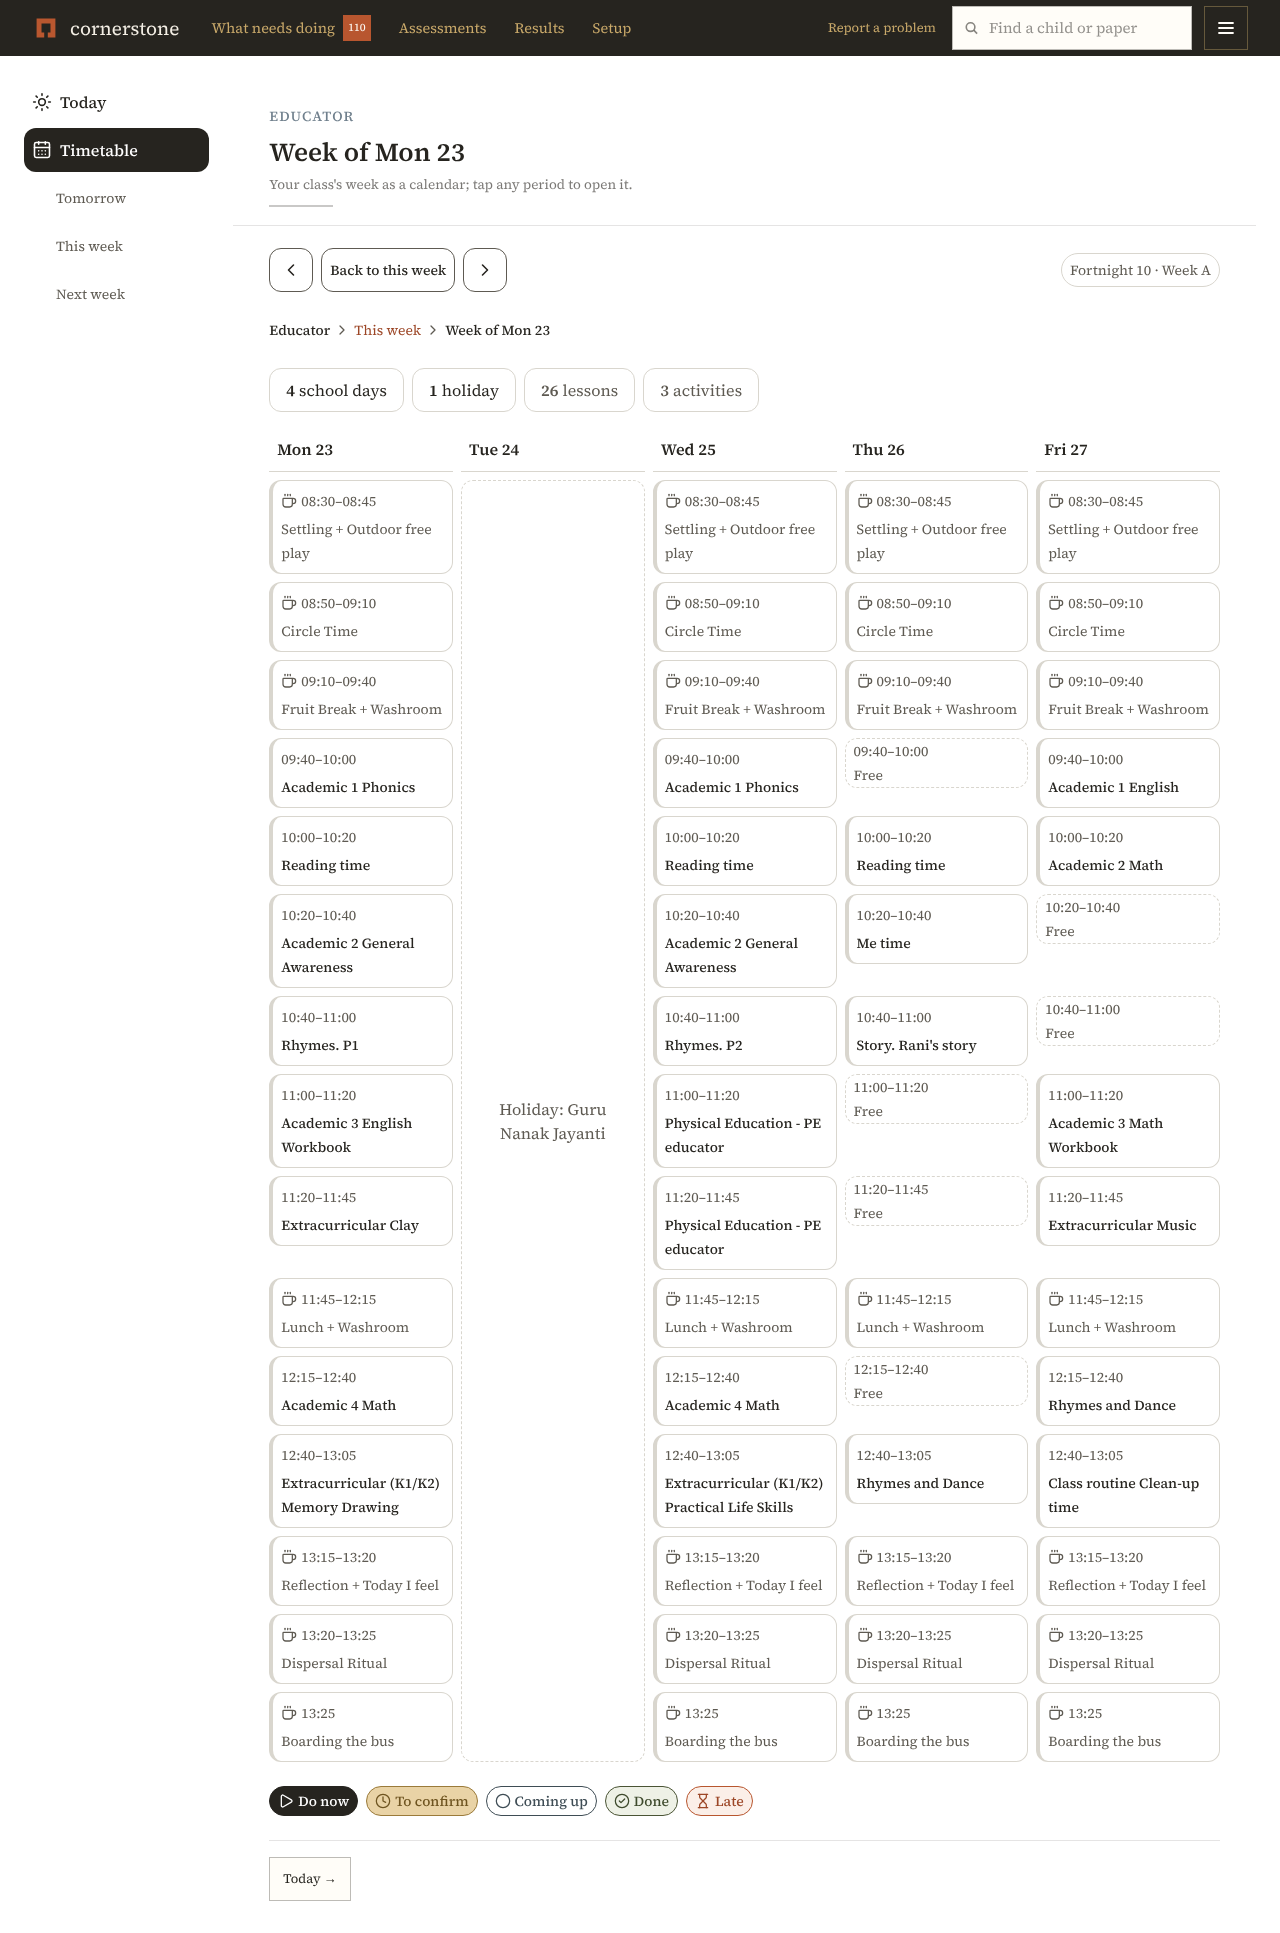
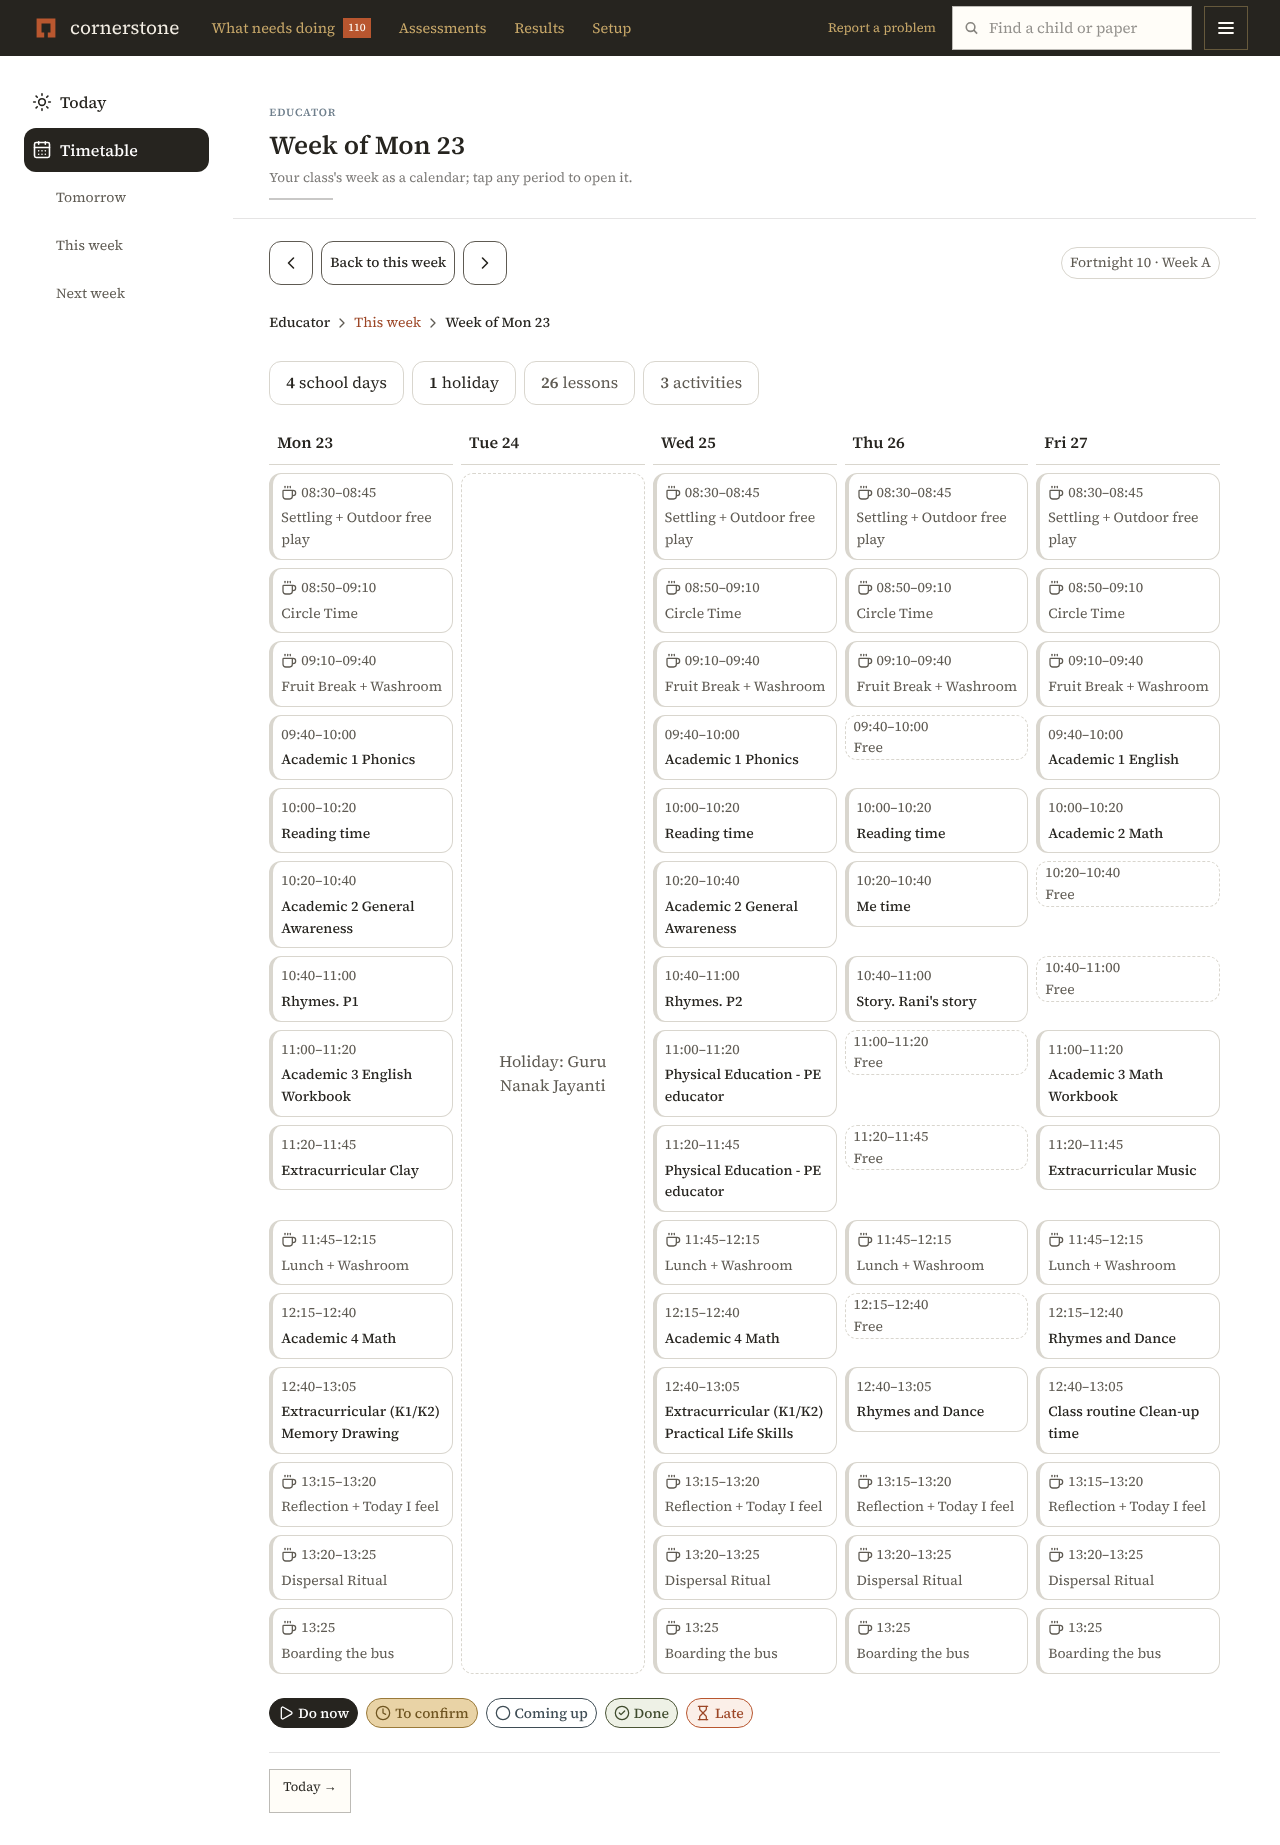
M1-09c: SchoolShell, the shell an area moves into with one change; the school's tokens load inside it only (the other pages keep their look and font, tested); the app-wide audit fixes left out
Claude-Session: https://claude.ai/code/session_01KEBF264xrSf75grt89GY2U

diff --git a/apps/web/components/educator/shell-nav.tsx b/apps/web/components/educator/shell-nav.tsx
@@ -3,29 +3,13 @@
 import { usePathname, useSearchParams } from "next/navigation";
 import Link from "@/components/link";
 import { Icon, type IconName } from "@/lib/icons";
-import { E } from "@/lib/educator/words";
 
-// Her timetable's menu (D-075): a left sidebar with submenus on a desktop, a bar of tabs at the foot of a phone. The
-// class she picked and the day she is on go with every link.
-type Sub = { key: string; label: string; path: string; extra?: string };
-type Item = { key: string; label: string; icon: IconName; path: string; sub?: Sub[] };
-// D-075's order: Today, then the timetable (day, week; fortnight and month come with their screens)
-const ITEMS: Item[] = [
-  { key: "today", label: E.nav.today, icon: "today", path: "/educator" },
-  {
-    key: "week",
-    label: E.nav.timetable,
-    icon: "week",
-    path: "/educator/week",
-    sub: [
-      { key: "day", label: E.nav.day, path: "/educator", extra: "tomorrow" },
-      { key: "week", label: E.nav.week, path: "/educator/week" },
-      { key: "next", label: E.nav.nextWeek, path: "/educator/week", extra: "next" },
-    ],
-  },
-];
+// The school's screens' menu (D-075): a left sidebar with submenus on a desktop, a bar of tabs at the foot of a phone.
+// The items are the area's own (lib/educator/menu.ts for the educator); the class she picked goes with every link.
+export type MenuSub = { key: string; label: string; path: string; extra?: string };
+export type MenuItem = { key: string; label: string; icon: IconName; path: string; also?: string[]; sub?: MenuSub[] };
 
-export function EducatorNav({ as }: { as: "side" | "tabs" }) {
+export function ShellNav({ as, items, label }: { as: "side" | "tabs"; items: MenuItem[]; label: string }) {
   const path = usePathname();
   const q = useSearchParams();
   const keep = (extra?: string) => {
@@ -36,15 +20,12 @@ export function EducatorNav({ as }: { as: "side" | "tabs" }) {
     const s = p.toString();
     return s ? `?${s}` : "";
   };
-  const on = (i: Item) =>
-    i.path === "/educator"
-      ? path === "/educator" || path.startsWith("/educator/period")
-      : path.startsWith(i.path);
+  const on = (i: MenuItem) => path === i.path || (i.also ?? []).some((p) => path.startsWith(p));
   if (as === "side")
     return (
-      <nav aria-label={E.nav.label} data-educator-nav="side">
+      <nav aria-label={label} data-educator-nav="side">
         <ul className="grid gap-[var(--space-1)]">
-          {ITEMS.map((i) => (
+          {items.map((i) => (
             <li key={i.key}>
               <Link
                 href={`${i.path}${keep()}`}
@@ -77,12 +58,12 @@ export function EducatorNav({ as }: { as: "side" | "tabs" }) {
     );
   return (
     <nav
-      aria-label={E.nav.label}
+      aria-label={label}
       className="fixed inset-x-0 bottom-0 z-40 border-t border-[var(--border)] bg-[var(--surface)] pb-[env(safe-area-inset-bottom)] md:hidden"
       data-educator-nav="tabs"
     >
-      <ul className="grid grid-cols-2">
-        {ITEMS.map((i) => (
+      <ul className="grid grid-flow-col auto-cols-fr">
+        {items.map((i) => (
           <li key={i.key}>
             <Link
               href={`${i.path}${keep()}`}

diff --git a/apps/web/app/globals.css b/apps/web/app/globals.css
@@ -1,7 +1,6 @@
-/* The school's design tokens (D-073, design-system/tokens.css), the lowest layer: a name the site also sets
-   (--font-body) keeps the site's value; the K2 educator's screens point it at Jost in their own layout. */
+/* The layers, lowest first. `tokens` is the school's design tokens (D-073, design-system/tokens.css), imported only by
+   the school's own screens' shell (components/educator/shell.tsx): the other pages keep their look. */
 @layer tokens, theme, base, components, utilities;
-@import "../design-system/tokens.css" layer(tokens);
 @import "tailwindcss";
 
 /* The material library — Cornerstone Brand Book, Edition 02 (design-system/PRINCIPLES.md).
@@ -48,8 +47,8 @@ body {
   background: var(--lime);
   color: var(--basalt);
   font-family: var(--font-body);
-  font-size: var(--text-body);
-  line-height: var(--lh-body);
+  font-size: 15px;
+  line-height: 1.55;
 }
 
 /* Headings: the same serif, a weight heavier; never all-caps. In the base layer, so a heading's own utility (a smaller
@@ -76,7 +75,7 @@ body {
 }
 
 /* A phone's floor for any other action, a toggle or a select: 24 px (WCAG 2.2 AA, 2.5.8). In the base layer, so a
-   control's own size (the educator's 44 px taps) wins: unlayered, this floor beat every utility and shrank them. */
+   control's own size (the school's screens' 44 px taps) wins: unlayered, this floor beat every utility and shrank them. */
 @layer base {
   @media (max-width: 767px) {
     main summary,
@@ -92,11 +91,11 @@ body {
 
 /* Labels: small letter-spaced capitals. Facts — ids, counts, dates — in figures that line up. */
 .label {
-  font-size: var(--text-label);
+  font-size: 11px;
   letter-spacing: 0.06em;
   text-transform: uppercase;
-  color: var(--text-muted);
-  font-weight: 500;
+  color: var(--ink-55);
+  font-weight: 600;
 }
 .fact {
   font-size: 13px;
@@ -251,9 +250,7 @@ table.grid.steady tr.under td {
 }
 
 .chip {
-  display: inline-flex;
-  align-items: center;
-  min-height: var(--tap);
+  display: inline-block;
   padding: 7px 13px;
   border: 1px solid var(--ink-30);
   font-size: 13px;
@@ -275,7 +272,6 @@ table.grid.steady tr.under td {
 .btn {
   display: inline-flex;
   align-items: center;
-  min-height: var(--tap);
   gap: 8px;
   padding: 10px 18px;
   background: var(--terracotta);

diff --git a/apps/web/app/(app)/educator/layout.tsx b/apps/web/app/(app)/educator/layout.tsx
@@ -1,22 +1,12 @@
-import { Suspense } from "react";
-import { EducatorNav } from "@/components/educator/nav";
+import { SchoolShell } from "@/components/educator/shell";
+import { EDUCATOR_MENU } from "@/lib/educator/menu";
+import { E } from "@/lib/educator/words";
 
-// The K2 educator's screens (M1-09, D-075): white ground, her menu down the left (a tab bar at the foot of a phone),
-// the page in the other ten of twelve columns. Every block under it reads design-system/tokens.css and nothing else.
+// The K2 educator's screens (M1-09, D-075) in the school's shell, with her menu.
 export default function EducatorLayout({ children }: { children: React.ReactNode }) {
   return (
-    <div data-educator className="grid flex-1 grid-cols-12 gap-x-[var(--space-4)] bg-[var(--surface)] text-[length:var(--text-body)] text-[var(--text)] max-md:pb-[var(--space-7)] md:px-[var(--space-4)] md:pt-[var(--space-4)]">
-      <aside className="col-span-2 max-md:hidden">
-        <Suspense>
-          <EducatorNav as="side" />
-        </Suspense>
-      </aside>
-      <div className="col-span-12 min-w-0 md:col-span-10">{children}</div>
-      <div className="md:hidden">
-        <Suspense>
-          <EducatorNav as="tabs" />
-        </Suspense>
-      </div>
-    </div>
+    <SchoolShell items={EDUCATOR_MENU} label={E.nav.label}>
+      {children}
+    </SchoolShell>
   );
 }

diff --git a/apps/web/components/educator/shell.tsx b/apps/web/components/educator/shell.tsx
@@ -1,0 +1,24 @@
+import "./school-tokens.css";
+import { Suspense } from "react";
+import { type MenuItem, ShellNav } from "./shell-nav";
+
+// The shell of the school's own screens (D-075): white ground, the area's menu down the left (a tab bar at the foot of
+// a phone), the page in the other ten of twelve columns, and the school's tokens loaded for this shell alone. An area
+// moves in with one change: its layout renders <SchoolShell items={its menu} label={its name}>.
+export function SchoolShell({ items, label, children }: { items: MenuItem[]; label: string; children: React.ReactNode }) {
+  return (
+    <div data-educator className="grid flex-1 grid-cols-12 gap-x-[var(--space-4)] bg-[var(--surface)] text-[length:var(--text-body)] text-[var(--text)] max-md:pb-[var(--space-7)] md:px-[var(--space-4)] md:pt-[var(--space-4)]">
+      <aside className="col-span-2 max-md:hidden">
+        <Suspense>
+          <ShellNav as="side" items={items} label={label} />
+        </Suspense>
+      </aside>
+      <div className="col-span-12 min-w-0 md:col-span-10">{children}</div>
+      <div className="md:hidden">
+        <Suspense>
+          <ShellNav as="tabs" items={items} label={label} />
+        </Suspense>
+      </div>
+    </div>
+  );
+}

diff --git a/apps/web/components/status-chip.tsx b/apps/web/components/status-chip.tsx
@@ -58,12 +58,10 @@ export const STATES = {
 export type State = keyof typeof STATES;
 export type Tone = (typeof STATES)[State]["tone"];
 
-// The tones' colours are the school's chip pairs (design-system/tokens.css, D-073), each text at 4.5:1 or more on its
-// fill; the old 12% fills were 3.15 to 4.24 (docs/design-audit-k2.md).
-const GREEN = "text-[var(--chip-done-fg)] bg-[var(--chip-done-bg)] border-[var(--chip-done-bd)]";
-const AMBER = "text-[var(--chip-confirm-fg)] bg-[var(--chip-confirm-bg)] border-[var(--chip-confirm-bd)]";
-const RED = "text-[var(--chip-late-fg)] bg-[var(--chip-late-bg)] border-[var(--chip-late-bd)]";
-const GREY = "text-[var(--chip-soon-fg)] bg-[var(--chip-soon-bg)] border-[var(--chip-soon-bd)]";
+const GREEN = "text-neem bg-neem/12 border-neem/30";
+const AMBER = "text-mud bg-bamboo/22 border-bamboo/45";
+const RED = "text-terracotta bg-terracotta/12 border-terracotta/35";
+const GREY = "text-monsoon bg-monsoon/12 border-monsoon/30";
 export const TONE_CLASS: Record<Tone, string> = { ok: GREEN, wait: AMBER, act: RED, quiet: GREY };
 
 // A different shape for each tone, so a chip reads without its colour: a tick, a clock, a triangle with a mark, a ring.

diff --git a/apps/web/lib/educator/menu.ts b/apps/web/lib/educator/menu.ts
@@ -1,0 +1,19 @@
+import type { MenuItem } from "@/components/educator/shell-nav";
+import { E } from "./words";
+
+// The K2 educator's menu (D-075's order): Today, then the timetable (a day, this week, next week). Fortnight, month,
+// activities, materials and children come with their screens.
+export const EDUCATOR_MENU: MenuItem[] = [
+  { key: "today", label: E.nav.today, icon: "today", path: "/educator", also: ["/educator/period"] },
+  {
+    key: "week",
+    label: E.nav.timetable,
+    icon: "week",
+    path: "/educator/week",
+    sub: [
+      { key: "day", label: E.nav.day, path: "/educator", extra: "tomorrow" },
+      { key: "week", label: E.nav.week, path: "/educator/week" },
+      { key: "next", label: E.nav.nextWeek, path: "/educator/week", extra: "next" },
+    ],
+  },
+];

diff --git a/apps/web/components/educator/school-tokens.css b/apps/web/components/educator/school-tokens.css
@@ -1,0 +1,15 @@
+/* The school's design tokens (D-073, D-075) for the screens inside SchoolShell only, as the lowest layer (declared in
+   app/globals.css): a name the site also sets keeps the site's value, and pages outside the shell never load this. */
+@import "../../design-system/tokens.css" layer(tokens);
+
+/* Inside the shell, the site's shared blocks keep the school's floor (D-073 R2: every tap at least 44 px each way):
+   PageShell's next step and its "?" are the site's own, and stay as they are on every other page. */
+@layer components {
+  [data-educator] .chip,
+  [data-educator] [data-ux="help"] {
+    display: inline-flex;
+    align-items: center;
+    min-height: var(--tap);
+    min-width: var(--tap);
+  }
+}

diff --git a/apps/web/app/(app)/voice/board.tsx b/apps/web/app/(app)/voice/board.tsx
@@ -73,7 +73,7 @@ export function Board({
           <div className="flex items-center gap-2" role="group" aria-label={W.level.label}>
             <span className="text-[13px] text-basalt/70">{W.level.label}</span>
             {W.level.values.map((n) => (
-              <button key={n} type="button" aria-pressed={w.level === n} onClick={() => setW({ ...w, level: n })} className={`chip min-h-11 min-w-11 justify-center ${w.level === n ? "on" : ""}`}>
+              <button key={n} type="button" aria-pressed={w.level === n} onClick={() => setW({ ...w, level: n })} className={`chip min-w-11 justify-center ${w.level === n ? "on" : ""}`}>
                 {n}
               </button>
             ))}

diff --git a/apps/web/components/help-link.tsx b/apps/web/components/help-link.tsx
@@ -10,7 +10,7 @@ export function HelpLink() {
   const href = guideFor(usePathname());
   if (!href) return null;
   return (
-    <Link href={href} aria-label="How this page works, in the guide" title="How this page works" data-ux="help" className="inline-flex h-11 min-w-11 items-center justify-center rounded-full border border-basalt/30 text-[14px] font-medium no-underline hover:bg-basalt/5">
+    <Link href={href} aria-label="How this page works, in the guide" title="How this page works" data-ux="help" className="inline-flex h-8 min-w-8 items-center justify-center rounded-full border border-basalt/30 text-[14px] font-medium no-underline hover:bg-basalt/5">
       ?
     </Link>
   );

diff --git a/apps/web/app/(app)/voice/notes/[id]/page.tsx b/apps/web/app/(app)/voice/notes/[id]/page.tsx
@@ -47,7 +47,7 @@ export default async function ConfirmNote({ params }: { params: Promise<{ id: st
         <span className="font-medium">{klass}</span>
         <span className="text-basalt/70">{heard}</span>
         <Late draft={draft} />
-        {my.recording ? <audio controls preload="none" src={`/api/voice/${id}`} aria-label={W.confirm.play} className="h-11 max-w-full" /> : null}
+        {my.recording ? <audio controls preload="none" src={`/api/voice/${id}`} aria-label={W.confirm.play} className="h-9 max-w-full" /> : null}
       </div>
       <Body draft={draft} klass={klass} grade={c?.grade} form={form} />
     </PageShell>

diff --git a/apps/web/tests/m1-09-calendar.spec.ts b/apps/web/tests/m1-09-calendar.spec.ts
@@ -144,3 +144,13 @@ test("in the week grid today's column is grey and no future cell carries a chip"
     }
   }
 });
+
+test("the school's tokens load inside the shell only: a page outside it keeps the site's own look", async ({ page }) => {
+  await page.goto("/papers");
+  const outside = await page.evaluate(() => ({
+    token: getComputedStyle(document.documentElement).getPropertyValue("--chip-done-fg").trim(),
+    font: getComputedStyle(document.body).fontFamily,
+  }));
+  expect(outside.token).toBe("");
+  expect(outside.font).toMatch(/Source Serif/);
+});

diff --git a/docs/notes/m1-09c-educator-calendar.md b/docs/notes/m1-09c-educator-calendar.md
@@ -18,6 +18,14 @@ This replaces the first M1-09 branch (cream ground, Jost and Cormorant, lists), 
 - **A period** (`/educator/period/[id]`), opened from any block: its date and time, the school's words, the planner's
   lines for its subject this fortnight, its activity's name (its page comes with the activity PR).
 
+## The shell (for the other areas)
+
+`components/educator/shell.tsx`, `SchoolShell({ items, label })`: white ground, the area's menu (a sidebar with
+submenus; tabs at the foot of a phone), the page in ten of twelve columns, and the school's tokens loaded for this
+shell alone (`school-tokens.css`, the lowest CSS layer). An area moves in with one change: its layout renders
+`<SchoolShell items={its menu} label={its name}>`; the educator's menu is `lib/educator/menu.ts`. Pages outside it keep
+the site's look and font (orchestrator, 5 Nov; tested).
+
 ## Choices made without asking (D-076: the simplest reading, recorded)
 
 - The site's top bar stays; the sidebar is the educator area's own, beside the page.
